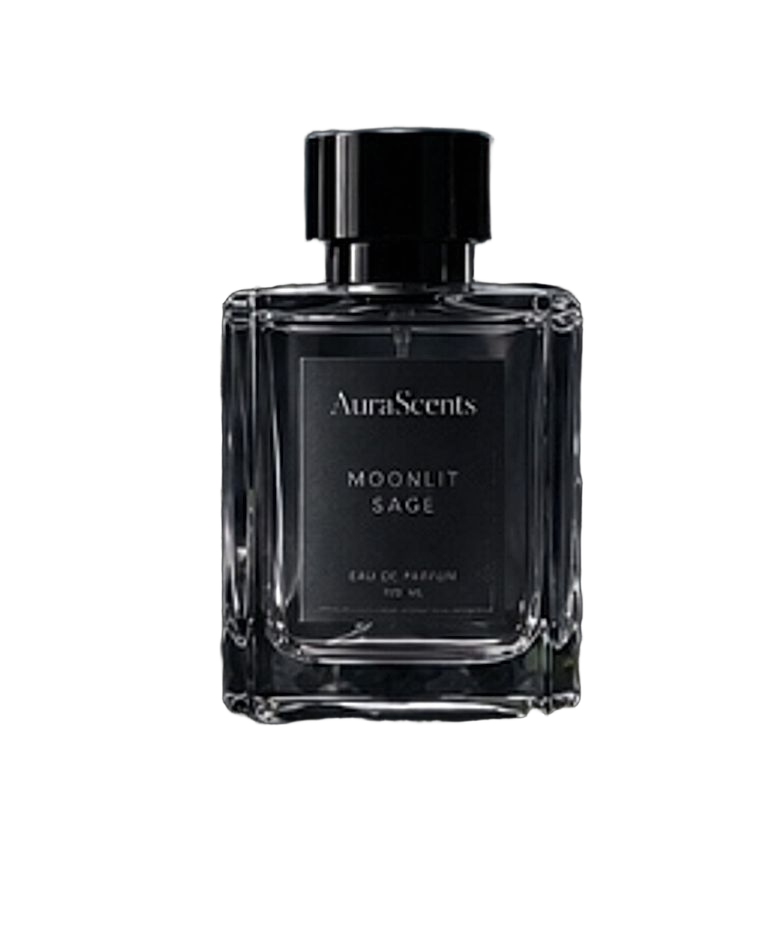
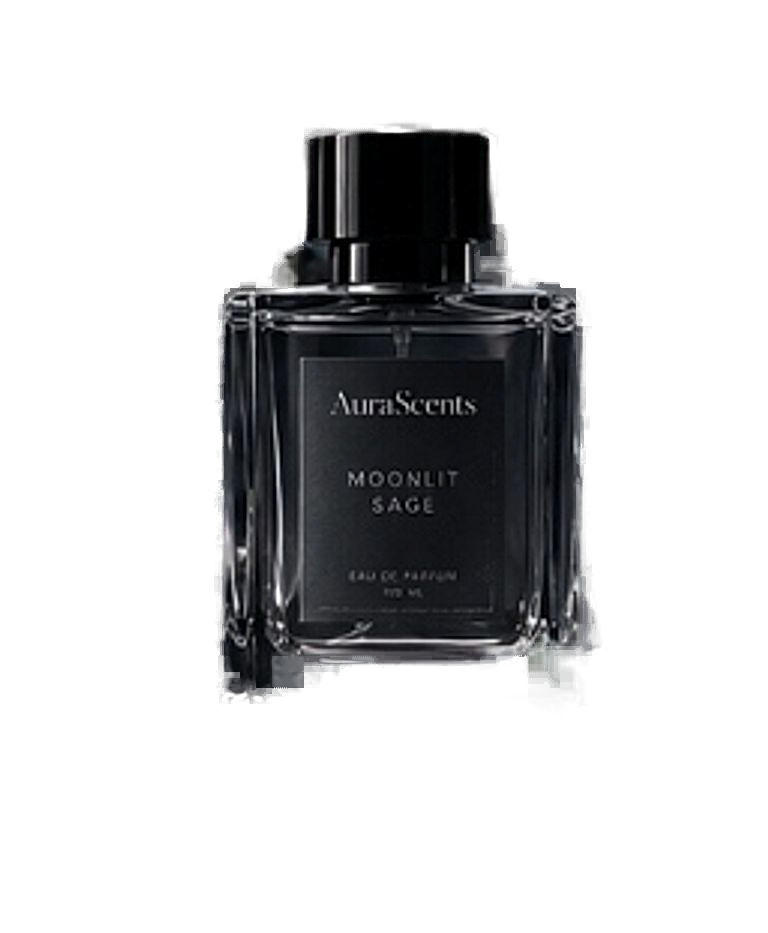
Re-extract background with isnet-general-use and add cinematic animations to Collections

Changed region(s): [[0.2812, 0.3108, 0.7812, 0.7771], [0.3125, 0.1243, 0.75, 0.3108]]

diff --git a/src/components/Collections.tsx b/src/components/Collections.tsx
@@ -39,22 +39,24 @@ const collectionsData = [
   }
 ];
 
-// Custom easing for luxury feel
-const easeOutQuart = [0.25, 1, 0.5, 1] as const;
+// Ultra-smooth cinematic easing
+const cinematicEase = [0.16, 1, 0.3, 1] as const;
 
 const containerVariants = {
   hidden: { opacity: 0 },
   visible: {
     opacity: 1,
     transition: {
-      staggerChildren: 0.1,
+      staggerChildren: 0.15,
+      delayChildren: 0.1,
     }
   },
   exit: {
     opacity: 0,
     transition: {
       staggerChildren: 0.05,
-      staggerDirection: -1
+      staggerDirection: -1,
+      duration: 0.8
     }
   }
 };
@@ -62,34 +64,40 @@ const containerVariants = {
 const bottleVariants = {
   hidden: (direction: number) => ({
     opacity: 0,
-    x: direction > 0 ? 80 : -80,
+    x: direction > 0 ? 100 : -100,
+    filter: 'blur(8px)',
   }),
   visible: {
     opacity: 1,
     x: 0,
-    transition: { duration: 1.0, ease: easeOutQuart }
+    filter: 'blur(0px)',
+    transition: { duration: 1.2, ease: cinematicEase }
   },
   exit: (direction: number) => ({
     opacity: 0,
-    x: direction > 0 ? -80 : 80,
-    transition: { duration: 0.6, ease: easeOutQuart }
+    x: direction > 0 ? -100 : 100,
+    filter: 'blur(8px)',
+    transition: { duration: 0.8, ease: cinematicEase }
   })
 };
 
 const textVariants = {
   hidden: (direction: number) => ({
     opacity: 0,
-    y: direction > 0 ? 15 : -15
+    y: direction > 0 ? 30 : -30,
+    filter: 'blur(10px)',
   }),
   visible: {
     opacity: 1,
     y: 0,
-    transition: { duration: 0.8, ease: easeOutQuart, delay: 0.2 }
+    filter: 'blur(0px)',
+    transition: { duration: 1.2, ease: cinematicEase, delay: 0.2 }
   },
   exit: (direction: number) => ({
     opacity: 0,
-    y: direction > 0 ? -15 : 15,
-    transition: { duration: 0.4, ease: easeOutQuart }
+    y: direction > 0 ? -30 : 30,
+    filter: 'blur(10px)',
+    transition: { duration: 0.6, ease: cinematicEase }
   })
 };
 
@@ -124,7 +132,7 @@ const Collections: React.FC = () => {
 
   useEffect(() => {
     if (isAnimating) {
-      const timer = setTimeout(() => setIsAnimating(false), 1000);
+      const timer = setTimeout(() => setIsAnimating(false), 1200);
       return () => clearTimeout(timer);
     }
   }, [isAnimating]);
@@ -134,42 +142,53 @@ const Collections: React.FC = () => {
   return (
     <section className="relative min-h-[100vh] bg-[#FDFBF7] overflow-hidden flex flex-col pt-16 pb-12" id="collections">
       
-      {/* Background subtle mandala */}
-      <div className="absolute inset-0 flex items-center justify-center opacity-[0.03] pointer-events-none">
-        <div className="w-[800px] h-[800px] rounded-full border border-black animate-[spin_60s_linear_infinite] border-dashed"></div>
-        <div className="absolute w-[600px] h-[600px] rounded-full border border-black animate-[spin_40s_linear_infinite_reverse]"></div>
+      {/* Cinematic Vignette & Mandala Background */}
+      <div className="absolute inset-0 bg-[radial-gradient(circle_at_center,transparent_40%,rgba(0,0,0,0.03)_100%)] pointer-events-none z-0"></div>
+      <div className="absolute inset-0 flex items-center justify-center opacity-[0.02] pointer-events-none z-0">
+        <div className="w-[800px] h-[800px] md:w-[1200px] md:h-[1200px] rounded-full border-[0.5px] border-black animate-[spin_80s_linear_infinite] border-dashed"></div>
+        <div className="absolute w-[600px] h-[600px] md:w-[900px] md:h-[900px] rounded-full border-[0.5px] border-black animate-[spin_60s_linear_infinite_reverse]"></div>
       </div>
 
       {/* Top Header */}
-      <div className="container mx-auto px-6 text-center z-20 mb-8">
-        <h2 className="text-[10px] tracking-[0.4em] uppercase text-gray-400 mb-6">
+      <div className="container mx-auto px-6 text-center z-20 mb-8 mt-6">
+        <motion.h2 
+          initial={{ opacity: 0, y: 10 }}
+          whileInView={{ opacity: 1, y: 0 }}
+          transition={{ duration: 1, ease: cinematicEase }}
+          className="text-[10px] tracking-[0.5em] uppercase text-gray-400/80 mb-6 font-medium"
+        >
           The AuraScents Collections
-        </h2>
-        <div className="w-px h-8 bg-gray-300 mx-auto"></div>
+        </motion.h2>
+        <motion.div 
+          initial={{ height: 0 }}
+          whileInView={{ height: '2rem' }}
+          transition={{ duration: 1, delay: 0.3, ease: cinematicEase }}
+          className="w-px bg-gray-300 mx-auto"
+        ></motion.div>
       </div>
 
       {/* Main Showcase Area */}
-      <div className="flex-1 flex flex-col justify-center items-center relative w-full max-w-[1400px] mx-auto px-4 md:px-12">
+      <div className="flex-1 flex flex-col justify-center items-center relative w-full max-w-[1600px] mx-auto px-4 md:px-12 z-10">
         
         {/* Navigation Controls */}
         <button 
           onClick={handlePrev}
-          className="absolute left-2 md:left-12 top-1/2 -translate-y-1/2 z-50 w-10 h-10 md:w-14 md:h-14 rounded-full border border-gray-200 flex items-center justify-center text-gray-400 hover:text-[var(--gold)] hover:border-[var(--gold)] transition-all duration-300 bg-white/50 backdrop-blur-sm shadow-sm hover:shadow-md"
+          className="absolute left-4 md:left-12 top-1/2 -translate-y-1/2 z-50 w-12 h-12 md:w-16 md:h-16 rounded-full border border-gray-200/60 flex items-center justify-center text-gray-400 hover:text-[var(--gold)] hover:border-[var(--gold)] transition-all duration-500 bg-white/30 backdrop-blur-md shadow-[0_8px_30px_rgb(0,0,0,0.04)] hover:shadow-[0_8px_30px_rgb(0,0,0,0.08)] group"
           aria-label="Previous Collection"
         >
-          <ChevronLeft size={20} strokeWidth={1} />
+          <ChevronLeft size={24} strokeWidth={1} className="transform group-hover:-translate-x-1 transition-transform duration-300" />
         </button>
 
         <button 
           onClick={handleNext}
-          className="absolute right-2 md:right-12 top-1/2 -translate-y-1/2 z-50 w-10 h-10 md:w-14 md:h-14 rounded-full border border-gray-200 flex items-center justify-center text-gray-400 hover:text-[var(--gold)] hover:border-[var(--gold)] transition-all duration-300 bg-white/50 backdrop-blur-sm shadow-sm hover:shadow-md"
+          className="absolute right-4 md:right-12 top-1/2 -translate-y-1/2 z-50 w-12 h-12 md:w-16 md:h-16 rounded-full border border-gray-200/60 flex items-center justify-center text-gray-400 hover:text-[var(--gold)] hover:border-[var(--gold)] transition-all duration-500 bg-white/30 backdrop-blur-md shadow-[0_8px_30px_rgb(0,0,0,0.04)] hover:shadow-[0_8px_30px_rgb(0,0,0,0.08)] group"
           aria-label="Next Collection"
         >
-          <ChevronRight size={20} strokeWidth={1} />
+          <ChevronRight size={24} strokeWidth={1} className="transform group-hover:translate-x-1 transition-transform duration-300" />
         </button>
 
         {/* Carousel Container */}
-        <div className="w-full h-full flex flex-col items-center justify-center relative">
+        <div className="w-full h-full flex flex-col items-center justify-center relative mt-4">
           <AnimatePresence mode="wait" custom={direction}>
             <motion.div
               key={activeCollection.id}
@@ -181,24 +200,23 @@ const Collections: React.FC = () => {
               className="flex flex-col items-center justify-center w-full"
             >
               
-              {/* Row of Bottles (NOT Absolute/Overlapping) */}
-              <div className="flex flex-row flex-nowrap justify-center items-end gap-2 md:gap-8 w-full max-w-5xl h-[40vh] md:h-[50vh] mb-8 px-8">
+              {/* Row of Bottles (Clean Horizontal Line) */}
+              <div className="flex flex-row flex-nowrap justify-center items-end gap-4 md:gap-12 w-full max-w-6xl h-[45vh] md:h-[55vh] mb-12 px-8">
                 {activeCollection.perfumes.map((p, idx) => {
-                  // Make center bottles slightly larger to create a natural curve
                   const isCenter = idx === 1 || idx === 2;
                   return (
                     <motion.div
                       key={p.key}
                       custom={direction}
                       variants={bottleVariants}
-                      className={`relative cursor-pointer transition-transform duration-500 hover:brightness-110 w-1/4 ${isCenter ? 'scale-110 z-20' : 'scale-90 z-10 opacity-90'}`}
+                      className={`relative cursor-pointer transition-all duration-700 ease-out hover:brightness-110 w-1/4 ${isCenter ? 'scale-110 z-20' : 'scale-[0.85] z-10 opacity-80 hover:opacity-100 hover:scale-95'}`}
                       onClick={() => navigate(`/product/${p.key}`)}
                     >
-                      <div className="w-full h-full transform transition-transform duration-700 hover:scale-105 hover:-translate-y-4">
+                      <div className="w-full h-full transform transition-transform duration-1000 ease-out hover:scale-[1.03] hover:-translate-y-6">
                         <img 
                           src={p.image} 
                           alt={p.name} 
-                          className="w-full h-auto max-h-[100%] object-contain filter drop-shadow-[0_15px_25px_rgba(0,0,0,0.15)]"
+                          className="w-full h-auto max-h-[100%] object-contain filter drop-shadow-[0_20px_40px_rgba(0,0,0,0.15)]"
                           style={{
                             WebkitMaskImage: 'linear-gradient(to bottom, black 85%, transparent 100%)',
                             maskImage: 'linear-gradient(to bottom, black 85%, transparent 100%)'
@@ -220,22 +238,24 @@ const Collections: React.FC = () => {
                 variants={textVariants}
                 className="text-center flex flex-col items-center"
               >
-                <div className="flex items-center gap-4 text-[10px] md:text-xs tracking-[0.3em] text-gray-400 mb-4 font-light">
-                  <span>{String(activeIndex + 1).padStart(2, '0')}</span>
-                  <span className="w-6 md:w-8 h-[1px] bg-gray-300"></span>
+                <div className="flex items-center gap-6 text-[10px] md:text-[11px] tracking-[0.4em] text-gray-400 mb-6 font-medium">
+                  <span className="text-gray-900">{String(activeIndex + 1).padStart(2, '0')}</span>
+                  <span className="w-8 md:w-12 h-[1px] bg-gray-300"></span>
                   <span>{String(collectionsData.length).padStart(2, '0')}</span>
                 </div>
                 
-                <h3 className="serif text-4xl md:text-6xl text-[var(--text-main)] mb-3 tracking-wide">
+                <h3 className="serif text-5xl md:text-7xl text-[var(--text-main)] mb-5 tracking-wide leading-tight">
                   {activeCollection.name}
                 </h3>
                 
-                <p className="text-[10px] md:text-xs tracking-widest uppercase text-gray-500 mb-8 max-w-[280px] md:max-w-md mx-auto leading-relaxed">
+                <p className="text-[10px] md:text-xs tracking-[0.25em] uppercase text-gray-500 mb-10 max-w-[300px] md:max-w-lg mx-auto leading-loose">
                   {activeCollection.theme}
                 </p>
 
-                <button className="text-[9px] md:text-[10px] tracking-[0.2em] uppercase border-b border-gray-300 pb-1 text-gray-600 hover:text-[var(--gold)] hover:border-[var(--gold)] transition-colors duration-300">
-                  Explore Collection
+                <button className="group relative text-[10px] md:text-[11px] tracking-[0.25em] uppercase text-gray-600 hover:text-[var(--gold)] transition-colors duration-500 py-2">
+                  <span className="relative z-10">Explore Collection</span>
+                  <span className="absolute bottom-0 left-0 w-full h-[1px] bg-gray-300 group-hover:bg-[var(--gold)] transition-colors duration-500"></span>
+                  <span className="absolute bottom-0 left-0 w-0 h-[1px] bg-[var(--gold)] group-hover:w-full transition-all duration-700 ease-out"></span>
                 </button>
               </motion.div>
             </motion.div>

diff --git a/remove_bg.py b/remove_bg.py
@@ -1,11 +1,14 @@
 import os
-from rembg import remove
+from rembg import remove, new_session
 from PIL import Image
 
 input_dir = "public/assets/perfumes"
 output_dir = "public/assets/perfumes/transparent"
 
 os.makedirs(output_dir, exist_ok=True)
+
+print("Loading isnet-general-use model...")
+session = new_session("isnet-general-use")
 
 for file in os.listdir(input_dir):
     if file.endswith(".jpg"):
@@ -18,7 +21,7 @@ for file in os.listdir(input_dir):
             with open(input_path, 'rb') as i:
                 with open(output_path, 'wb') as o:
                     input_bytes = i.read()
-                    output_bytes = remove(input_bytes)
+                    output_bytes = remove(input_bytes, session=session, alpha_matting=True)
                     o.write(output_bytes)
             print(f"Saved {output_filename}")
         except Exception as e:
